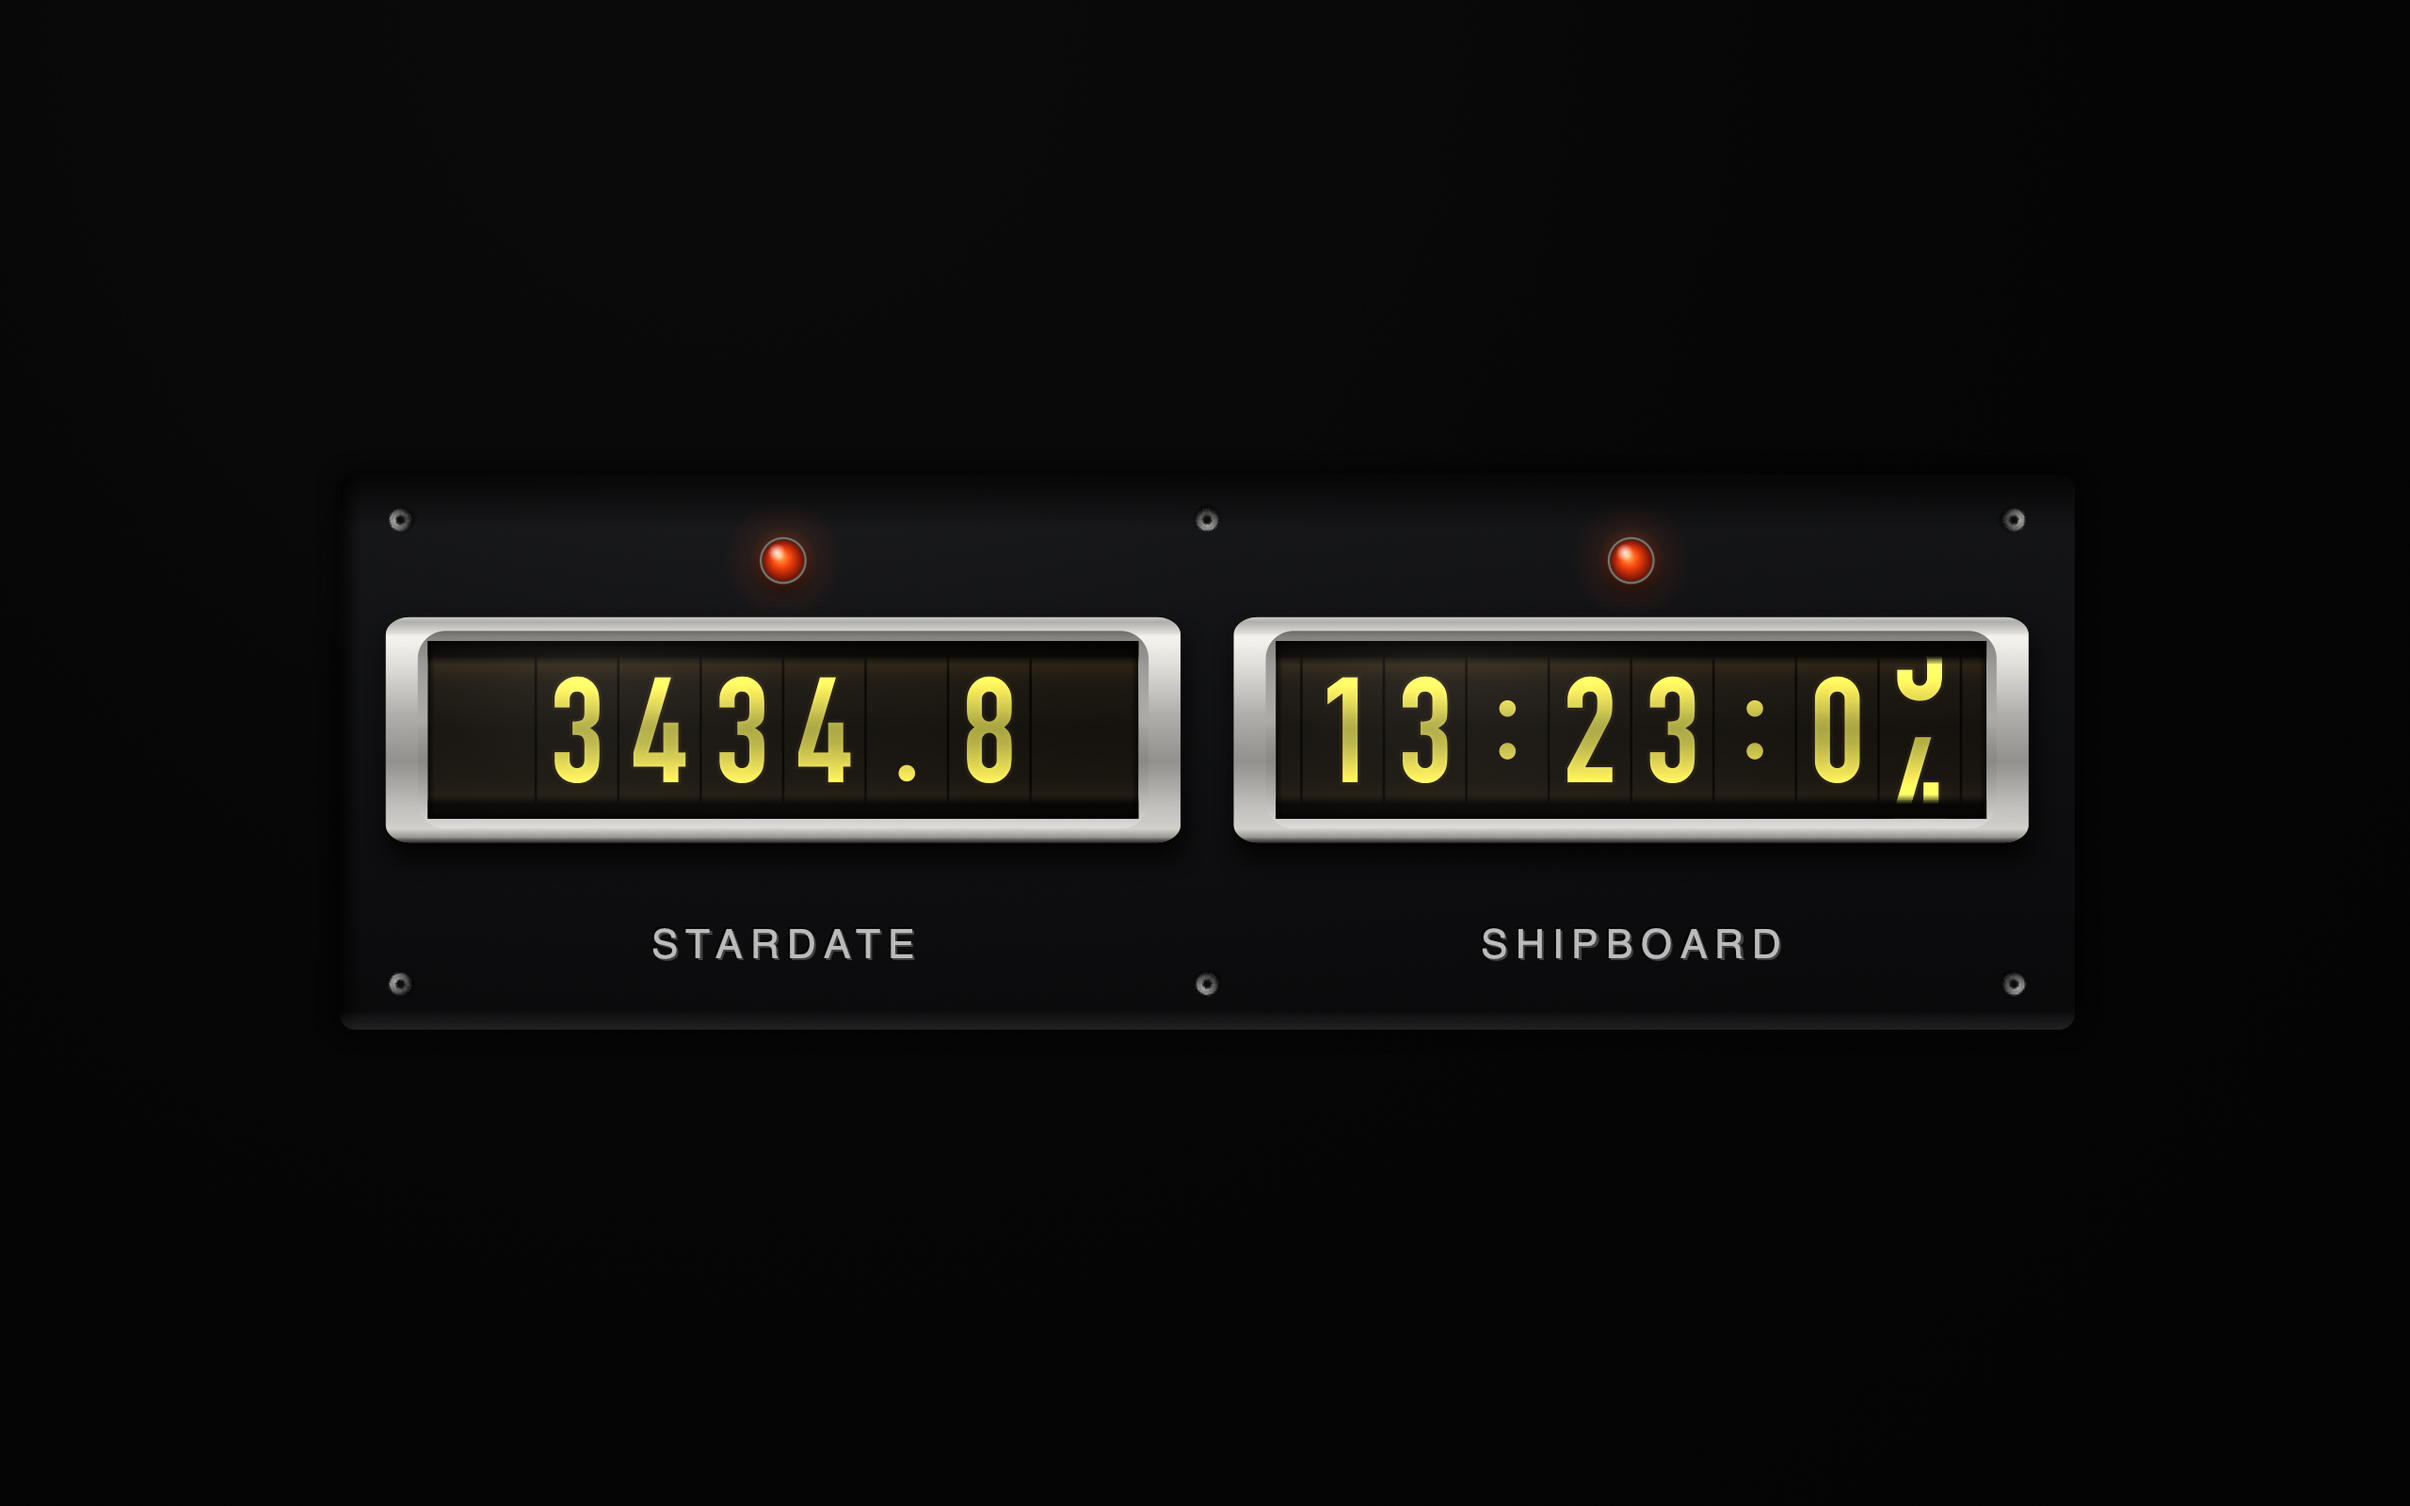
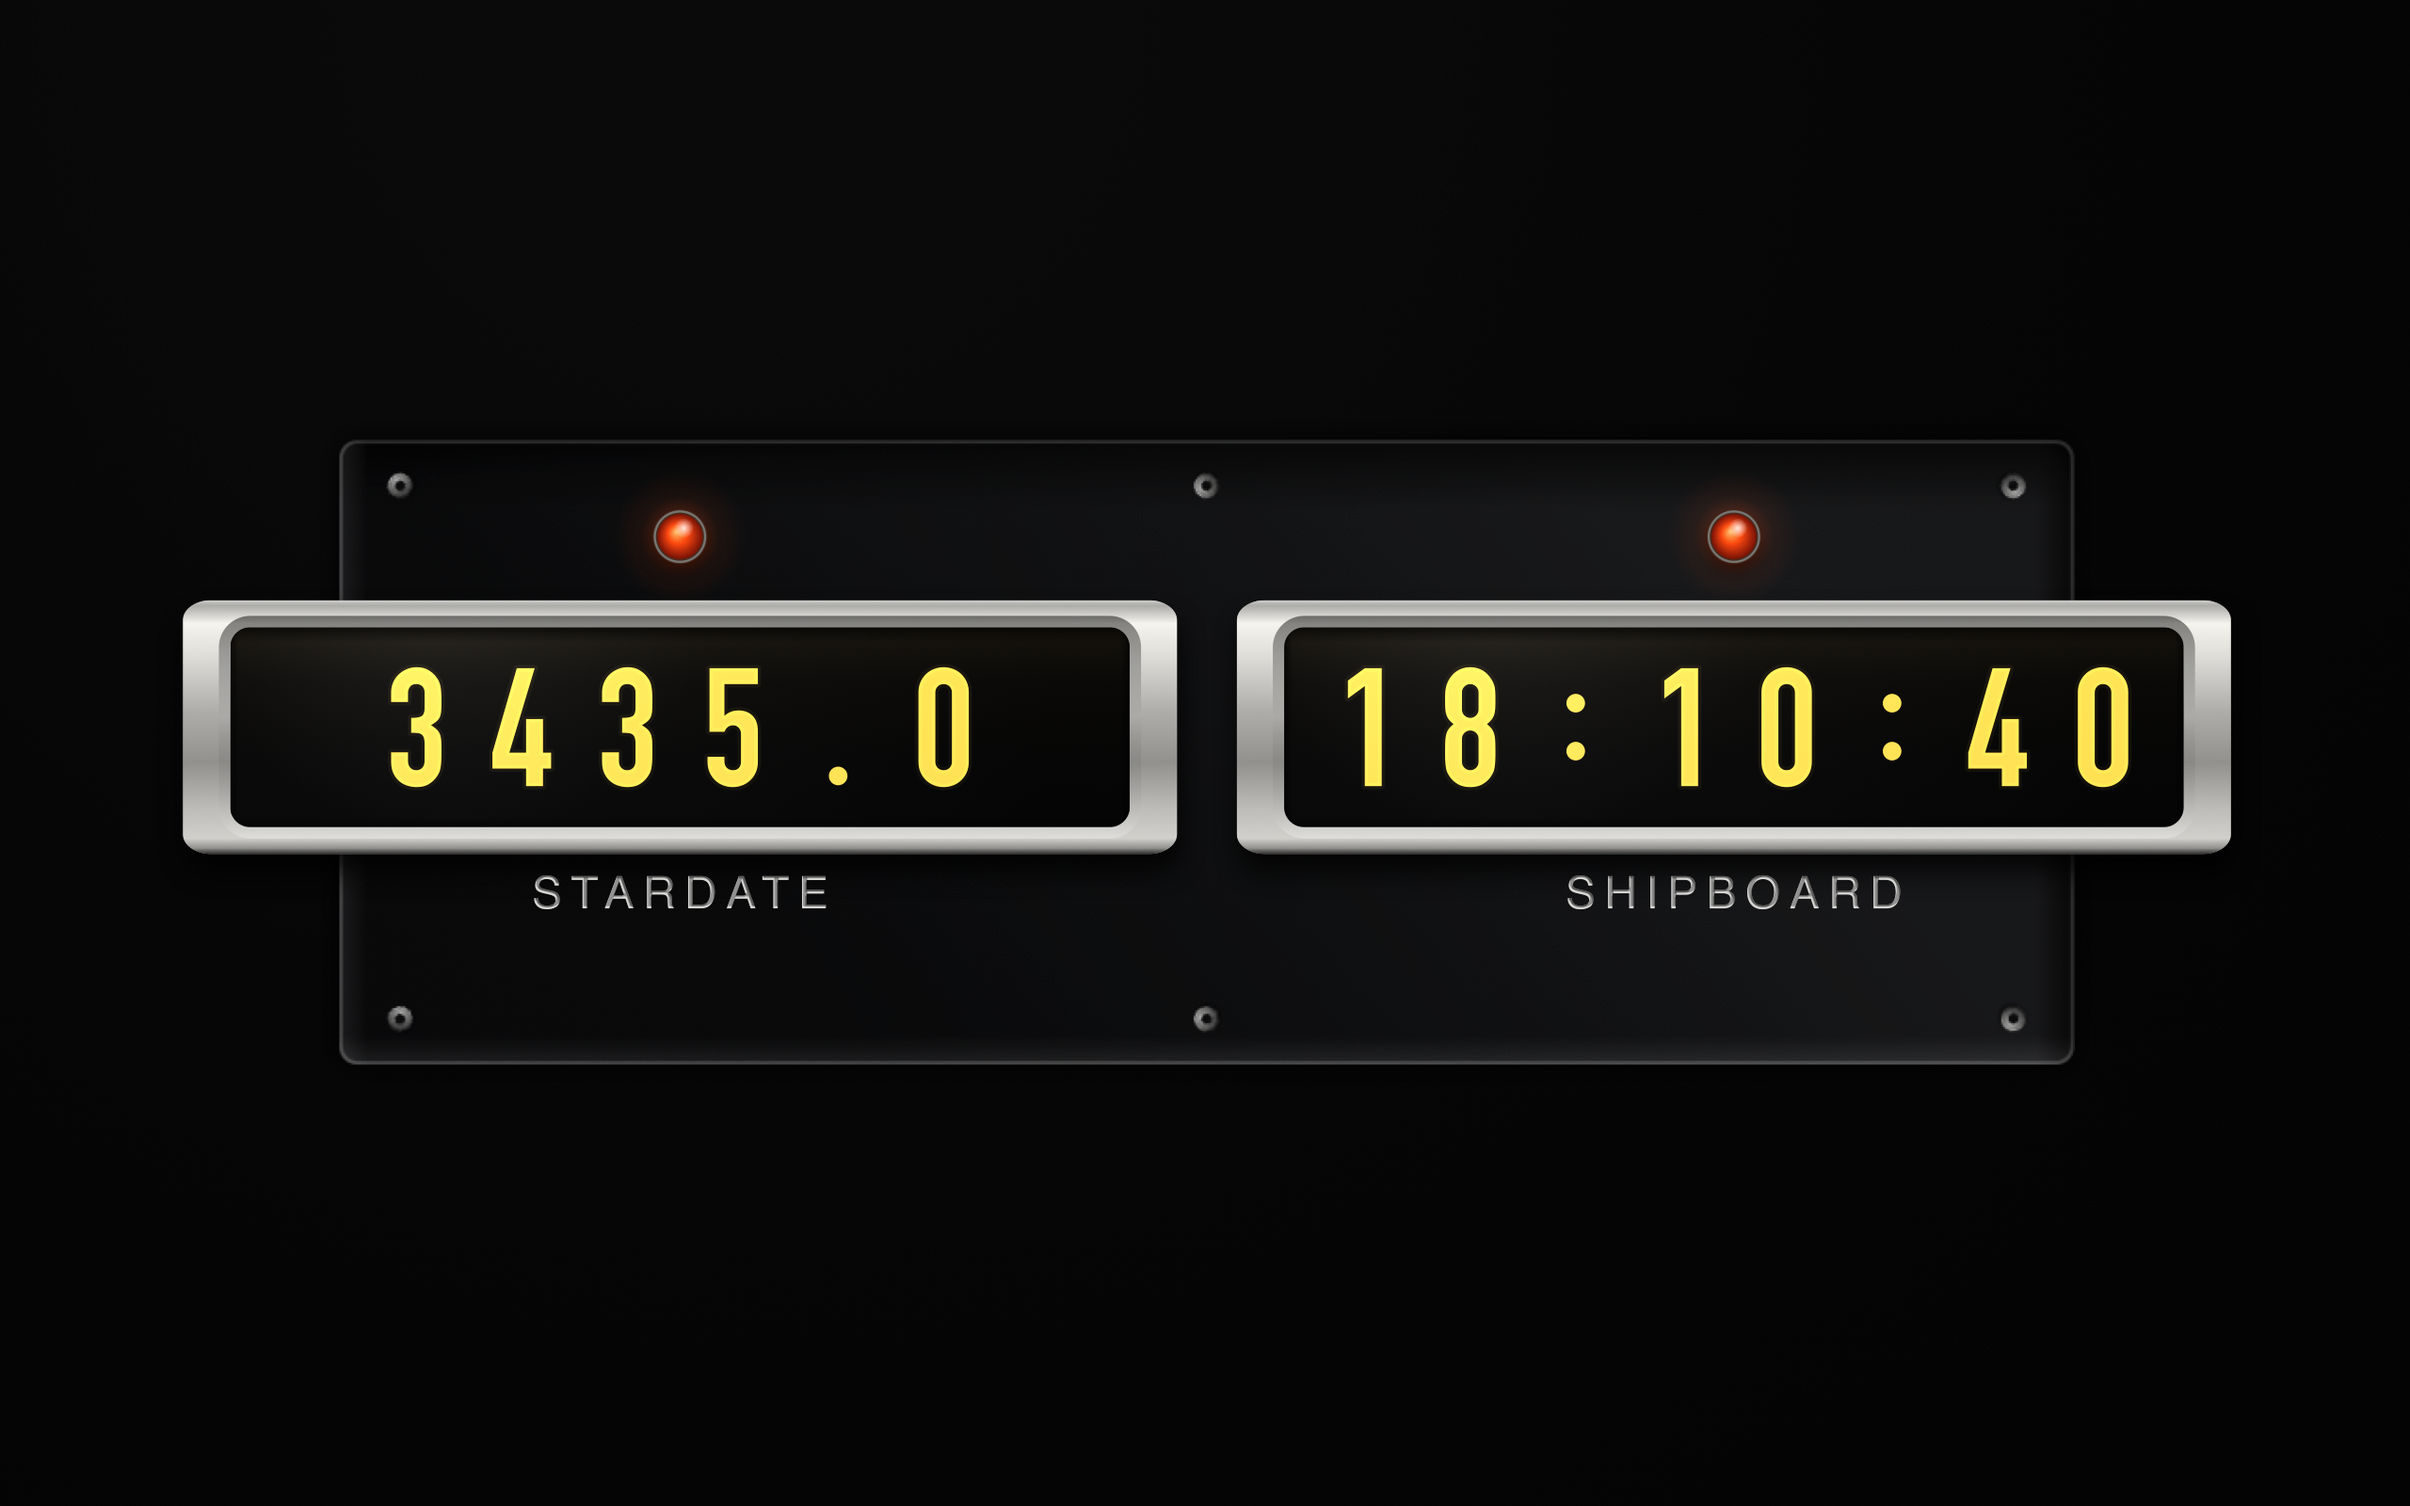
The Remaster is a display, not a lit drum
It was still being drawn as a drum with the lighting recoloured: warm-grey
surface, division lines between wheels, a lamp falloff across the numerals and
a mask over the ends. None of that belongs to an emissive readout. The face is
black, the division lines are gone, and nothing shades the numerals - they are
the light source. Cell spacing is unchanged so both eras read at the same size.

The window interior follows the bezel's curve again. Clipping it to a rectangle
was worth about 1.5ms but left a squared-off interior inside a rounded frame,
which shows plainly at chronometer size.

Chronometer apertures widened from 4.0 to 4.5 of their height: at 4.0 an
eight-character reading ran right up to the frame.

Captions moved up under the readouts, with the clearance derived from the bezel
width rather than guessed - the frame stands proud below the opening, so
spacing from the aperture alone put the type on top of it.

README corrected: it described the remastered numerals as sitting on drums.

diff --git a/src/CounterWindow.swift b/src/CounterWindow.swift
@@ -12,9 +12,10 @@ import CoreText
 // Type-scoped rather than file-scope globals on purpose — see the README note
 // about file-scope `let` crashing once the bundle is dlopen'd.
 enum CounterStyle {
-    /// The drum is a physical surface, so it is a dark warm grey rather than
-    /// black. Against black the numerals just float.
-    static let windowFill = CGColor(red: 0.118, green: 0.101, blue: 0.076, alpha: 1)
+    /// The remastered readout is an emissive display: black, with the numerals
+    /// lit from within. Only the Classic has a physical drum surface to catch
+    /// light, and that has its own colour below.
+    static let windowFill = CGColor(red: 0.020, green: 0.019, blue: 0.021, alpha: 1)
     static let amber      = (r: CGFloat(0.965), g: CGFloat(0.820), b: CGFloat(0.290))
     static let label      = CGColor(red: 0.87, green: 0.87, blue: 0.855, alpha: 1)
 
@@ -179,21 +180,23 @@ final class CounterWindow {
 
         let lit = drawReading(ctx, in: win)
 
-        if finish == .modern {
-            CounterChrome.drawLampFalloff(ctx, in: win)
-            CounterChrome.drawDigitSheen(ctx, in: win, glyphs: lit)
-            CounterChrome.drawLamps(ctx, in: win)
-        } else {
+        // Nothing lights the emissive readout — the numerals are the light
+        // source — so the drum shading, the lamp wash and the mask all belong
+        // to the Classic alone.
+        if finish == .retro {
             CounterChrome.drawRetroShading(ctx, in: win)
         }
+        _ = lit
 
         // No seam across the middle. A split-flap has one; a rotating barrel
         // shows a continuous digit face, and the hard line read as the wrong
         // mechanism entirely.
         ctx.setBlendMode(.normal)
 
-        CounterChrome.drawLetterbox(ctx, in: win, finish: finish,
-                                    cutout: drumExtent, digitHeight: lastDigitHeight)
+        if finish == .retro {
+            CounterChrome.drawLetterbox(ctx, in: win, finish: finish,
+                                        cutout: drumExtent, digitHeight: lastDigitHeight)
+        }
         CounterChrome.drawGloss(ctx, in: win)
         CounterChrome.drawInnerShadow(ctx, in: win)
     }
@@ -340,11 +343,11 @@ final class CounterWindow {
 
         // Each character rides its own wheel, so there is a physical break
         // between them. A thin dark line reads as the gap between drums.
+        guard finish == .retro else { return lit }
         ctx.saveGState()
         CounterChrome.clipApertureFor(ctx, win)
         ctx.setBlendMode(.normal)
-        ctx.setFillColor(CGColor(red: 0, green: 0, blue: 0,
-                                 alpha: finish == .retro ? 0.88 : 0.72))
+        ctx.setFillColor(CGColor(red: 0, green: 0, blue: 0, alpha: 0.88))
         let sepW = max(1, win.height * (finish == .retro ? 0.020 : 0.014))
         drumExtent = (extentLo, extentHi)
         for bx in boundaries {
@@ -568,10 +571,10 @@ enum CounterChrome {
         clipAperture(ctx, win)
     }
     private static func clipAperture(_ ctx: CGContext, _ win: CGRect) {
-        // A rectangular clip, not the rounded aperture: the bezel overlaps the
-        // corners anyway, so nothing rounded is visible, and rounded-path
-        // clipping is markedly more expensive to composite through.
-        ctx.clip(to: win)
+        // Follows the bezel's curve. A rectangular clip is cheaper but leaves
+        // the interior squared off inside a rounded frame, which shows.
+        ctx.addPath(aperture(win))
+        ctx.clip()
     }
 
     /// The screen itself: gloss black, the way an OLED panel reads when it is

diff --git a/src/ChronometerView.swift b/src/ChronometerView.swift
@@ -91,7 +91,9 @@ public class ChronometerView: ScreenSaverView {
 
     /// Aperture proportion. Wider than the clock module's, because these
     /// windows carry eight characters and the panel is far bigger on screen.
-    private static let windowAspect: CGFloat = 4.0
+    /// Wide enough that an eight-character reading stops well clear of the
+    /// frame. At 4.0 the outermost wheels ran right up to the bezel.
+    private static let windowAspect: CGFloat = 4.5
     private static let driftAmp: CGFloat = 0.016
 
     public override init?(frame: NSRect, isPreview: Bool) {
@@ -216,9 +218,12 @@ public class ChronometerView: ScreenSaverView {
             CounterChrome.drawLED(ctx, at: CGPoint(x: r.midX, y: lampY), radius: lampR,
                                   red: 0.94, green: 0.28, blue: 0.06)
             w.draw(ctx, in: r)
+            // Clear of the bezel's lower edge, not just of the aperture — the
+            // frame stands proud below the opening.
+            let capY = winY - CounterChrome.bezelWidth(
+                forAperture: CGRect(x: 0, y: 0, width: 1, height: winH)) - labelSize * 0.85
             CounterChrome.drawEtchedLabel(ctx, captions[i],
-                                          centeredAt: CGPoint(x: r.midX,
-                                                              y: p.minY + p.height * 0.155),
+                                          centeredAt: CGPoint(x: r.midX, y: capY),
                                           size: labelSize)
             x += eachW + gap
         }

diff --git a/README.md b/README.md
@@ -29,17 +29,19 @@ foreshortening is what reads as rotation rather than a card sliding past.
 
 ![](docs/chronometer-classic.png)
 
-**Remaster** is an emissive readout: lit amber numerals on dark drums. There is
-no wheel to turn and no lamp to switch, so digits translate rather than rotate,
-and the clock module drops the light switch entirely.
+**Remaster** is an emissive display — amber numerals lit from within, on black.
+There is no wheel, so there are no division lines and nothing for a lamp to
+fall on; the cell spacing is kept only so the two eras read at the same size.
+Digits translate rather than rotate, and the clock module drops the light
+switch entirely, since there is no lamp to switch.
 
 ![](docs/chronometer-remaster.png)
 
-The shading runs opposite ways for the same reason. The dark drum is lit from
-the slot edges, brightest top and bottom. The pale drum has no lamp of its own
-— light enters from behind the mask, strongest along the top — so it darkens
-towards the bottom, and the shading multiplies over the numerals because they
-are printed on that surface rather than glowing through it.
+Only the Classic is shaded at all. Its pale drum has no lamp of its own —
+light enters from behind the mask, strongest along the top — so the surface
+darkens towards the bottom, and the shading multiplies over the numerals
+because they are printed on it rather than glowing through it. The Remaster is
+its own light source, so nothing shades it.
 
 ## The clock module
 
